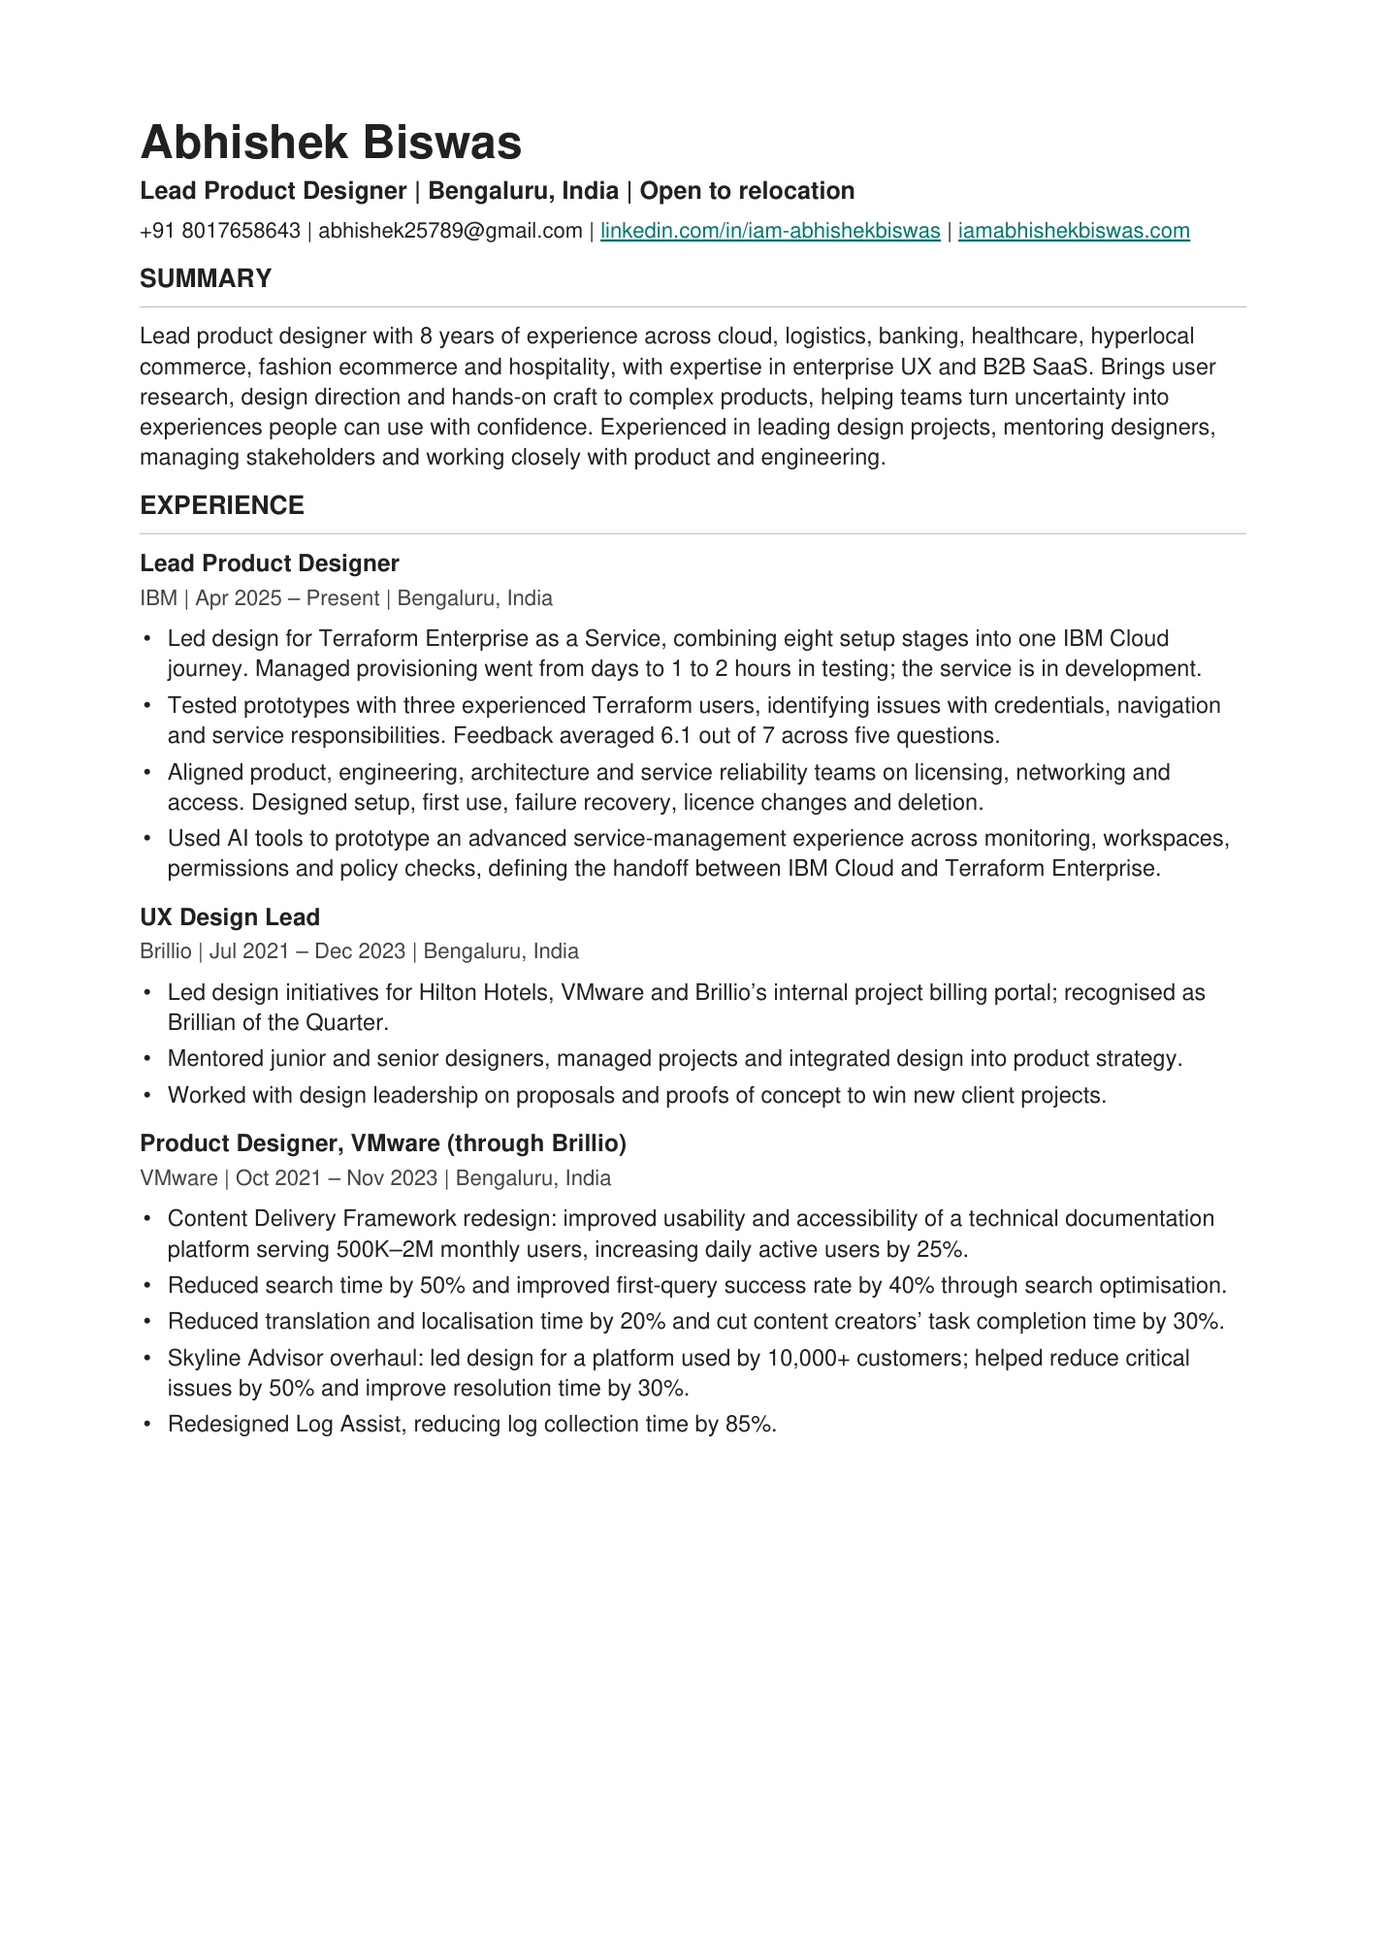
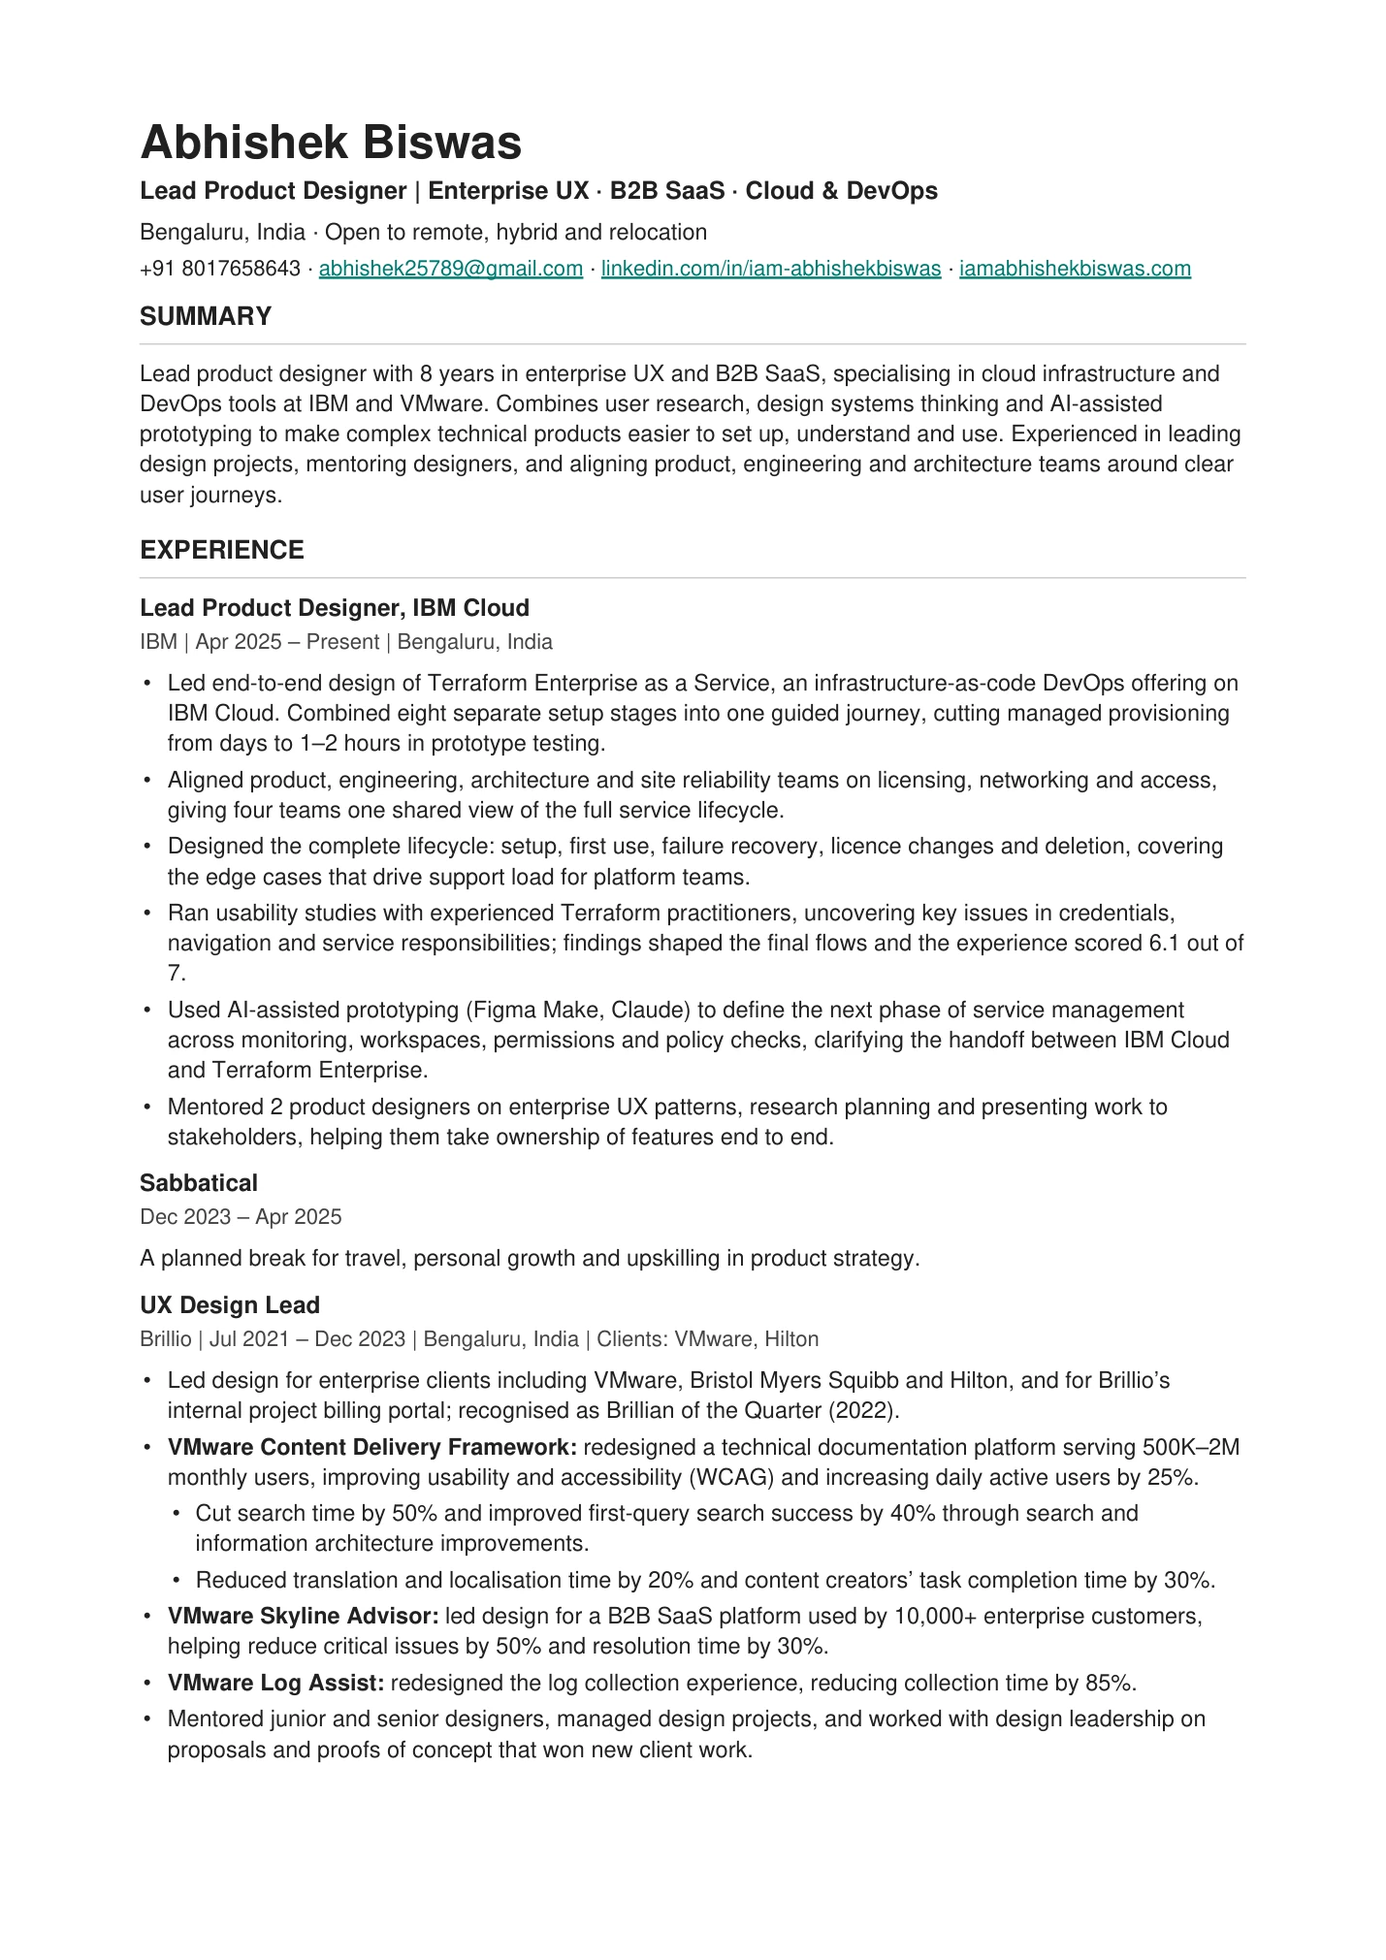
hero, resume, timline update 2

Changed region(s): [[0.0924, 0.0935, 0.8929, 0.904]]

diff --git a/resume/index.html b/resume/index.html
@@ -70,7 +70,7 @@
   <header class="resume-toolbar">
     <div class="toolbar-inner">
       <a class="toolbar-title resume-brand" href="/" aria-label="Abhishek Biswas, home"><img src="/brand-mark.svg?v=2" alt="" width="39" height="39"><span>Abhishek Biswas<b>.</b></span></a>
-      <div class="resume-toolbar-actions"><button class="theme-toggle" type="button" aria-label="Switch to dark theme" title="Switch to dark theme"><svg class="theme-sun" width="20" height="20" viewBox="0 0 24 24" fill="none" stroke="currentColor" stroke-width="1.7" stroke-linecap="round" aria-hidden="true"><circle cx="12" cy="12" r="3.8"/><path d="M12 2v2m0 16v2M2 12h2m16 0h2M4.93 4.93l1.42 1.42m11.3 11.3 1.42 1.42M4.93 19.07l1.42-1.42m11.3-11.3 1.42-1.42"/></svg><svg class="theme-moon" width="20" height="20" viewBox="0 0 24 24" fill="none" stroke="currentColor" stroke-width="1.7" stroke-linecap="round" stroke-linejoin="round" aria-hidden="true"><path d="M20.6 13.5A8.6 8.6 0 0 1 10.5 3.4a8.6 8.6 0 1 0 10.1 10.1Z"/></svg></button><a class="download-link" href="./Abhishek_Biswas_Resume_ATS.pdf?v=216" download="Abhishek-Biswas-Resume.pdf" aria-label="Download Abhishek Biswas résumé as a PDF" title="Download PDF">
+      <div class="resume-toolbar-actions"><button class="theme-toggle" type="button" aria-label="Switch to dark theme" title="Switch to dark theme"><svg class="theme-sun" width="20" height="20" viewBox="0 0 24 24" fill="none" stroke="currentColor" stroke-width="1.7" stroke-linecap="round" aria-hidden="true"><circle cx="12" cy="12" r="3.8"/><path d="M12 2v2m0 16v2M2 12h2m16 0h2M4.93 4.93l1.42 1.42m11.3 11.3 1.42 1.42M4.93 19.07l1.42-1.42m11.3-11.3 1.42-1.42"/></svg><svg class="theme-moon" width="20" height="20" viewBox="0 0 24 24" fill="none" stroke="currentColor" stroke-width="1.7" stroke-linecap="round" stroke-linejoin="round" aria-hidden="true"><path d="M20.6 13.5A8.6 8.6 0 0 1 10.5 3.4a8.6 8.6 0 1 0 10.1 10.1Z"/></svg></button><a class="download-link" href="./Abhishek_Biswas_Resume_ATS.pdf?v=274" download="Abhishek-Biswas-Resume.pdf" aria-label="Download Abhishek Biswas résumé as a PDF" title="Download PDF">
         <svg width="17" height="17" viewBox="0 0 24 24" fill="none" stroke="currentColor" stroke-width="1.8" stroke-linecap="round" stroke-linejoin="round" aria-hidden="true"><path d="M12 3v12m-5-5 5 5 5-5M5 17v4h14v-4"/></svg>
         Download PDF
       </a></div>
@@ -79,76 +79,73 @@
   <div class="resume-back-row"><a class="back-link" href="../index.html"><span class="back-icon"><svg width="20" height="20" viewBox="0 0 24 24" fill="none" stroke="currentColor" stroke-width="1.6" stroke-linecap="round" stroke-linejoin="round" aria-hidden="true"><path d="M19 12H5m6-6-6 6 6 6"/></svg></span><span>Home</span></a></div>
   <main class="resume-pages" id="resume">
 <div class="resume-sheet"><h1>Abhishek Biswas</h1>
-<p class="resume-subtitle">Lead Product Designer | Bengaluru, India | Open to relocation</p>
-<p class="resume-contact">+91 8017658643 | <a href="mailto:abhishek25789@gmail.com">abhishek25789@gmail.com</a> | <a href="https://www.linkedin.com/in/iam-abhishekbiswas" target="_blank" rel="noopener noreferrer">linkedin.com/in/iam abhishekbiswas</a> | <a href="https://iamabhishekbiswas.com" target="_blank" rel="noopener noreferrer">iamabhishekbiswas.com</a></p>
+<p class="resume-subtitle">Lead Product Designer | Enterprise UX · B2B SaaS · Cloud &amp; DevOps</p>
+<p>Bengaluru, India · Open to remote, hybrid and relocation</p>
+<p class="resume-contact">+91 8017658643 · <a href="mailto:abhishek25789@gmail.com">abhishek25789@gmail.com</a> · <a href="https://linkedin.com/in/iam-abhishekbiswas" target="_blank" rel="noopener noreferrer">linkedin.com/in/iam-abhishekbiswas</a> · <a href="https://iamabhishekbiswas.com" target="_blank" rel="noopener noreferrer">iamabhishekbiswas.com</a></p>
 <h2>SUMMARY</h2>
-<p>Lead product designer with 8 years of experience across cloud, logistics, banking, healthcare, hyperlocal commerce, fashion ecommerce and hospitality, with expertise in enterprise UX and B2B SaaS. Uses research, task flows, interface design and prototype testing to make complex products easier to set up and use. Experienced in leading design projects, mentoring designers, managing stakeholders and working closely with product and engineering.</p>
+<p>Lead product designer with 8 years in enterprise UX and B2B SaaS, specialising in cloud infrastructure and DevOps tools at IBM and VMware. Combines user research, design systems thinking and AI-assisted prototyping to make complex technical products easier to set up, understand and use. Experienced in leading design projects, mentoring designers, and aligning product, engineering and architecture teams around clear user journeys.</p>
 <h2>EXPERIENCE</h2>
-<article class="resume-entry"><h3>Lead Product Designer</h3>
-<p class="resume-meta">IBM | Apr 2025 to Present | Bengaluru, India</p>
+<article class="resume-entry"><h3>Lead Product Designer, IBM Cloud</h3>
+<p class="resume-meta">IBM | Apr 2025 – Present | Bengaluru, India</p>
 <ul>
-<li>Led design for Terraform Enterprise as a Service, combining eight setup stages into one flow in IBM Cloud. Managed provisioning went from days to 1 to 2 hours in testing; the service is in development.</li>
-<li>Tested prototypes with three experienced Terraform users, identifying issues with credentials, navigation and service responsibilities. Feedback averaged 6.1 out of 7 across five questions.</li>
-<li>Aligned product, engineering, architecture and service reliability teams on licensing, networking and access. Designed setup, first use, failure recovery, licence changes and deletion.</li>
-<li>Used AI tools to prototype monitoring, workspace management, permissions and policy checks. Defined which actions customers complete in IBM Cloud and which require Terraform Enterprise.</li>
+<li>Led end-to-end design of Terraform Enterprise as a Service, an infrastructure-as-code DevOps offering on IBM Cloud. Combined eight separate setup stages into one guided journey, cutting managed provisioning from days to 1–2 hours in prototype testing.</li>
+<li>Aligned product, engineering, architecture and site reliability teams on licensing, networking and access, giving four teams one shared view of the full service lifecycle.</li>
+<li>Designed the complete lifecycle: setup, first use, failure recovery, licence changes and deletion, covering the edge cases that drive support load for platform teams.</li>
+<li>Ran usability studies with experienced Terraform practitioners, uncovering key issues in credentials, navigation and service responsibilities; findings shaped the final flows and the experience scored 6.1 out of 7.</li>
+<li>Used AI-assisted prototyping (Figma Make, Claude) to define the next phase of service management across monitoring, workspaces, permissions and policy checks, clarifying the handoff between IBM Cloud and Terraform Enterprise.</li>
+<li>Mentored 2 product designers on enterprise UX patterns, research planning and presenting work to stakeholders, helping them take ownership of features end to end.</li>
 </ul></article>
+<article class="resume-entry"><h3>Sabbatical</h3>
+<p class="resume-meta">Dec 2023 – Apr 2025</p>
+<p>A planned break for travel, personal growth and upskilling in product strategy.</p></article>
 <article class="resume-entry"><h3>UX Design Lead</h3>
-<p class="resume-meta">Brillio | Jul 2021 to Dec 2023 | Bengaluru, India</p>
+<p class="resume-meta">Brillio | Jul 2021 – Dec 2023 | Bengaluru, India | Clients: VMware, Hilton</p>
 <ul>
-<li>Led design initiatives for Hilton Hotels, VMware and Brillio’s internal project billing portal; recognised as Brillian of the Quarter.</li>
-<li>Mentored junior and senior designers, managed design projects and worked with product teams to prioritise improvements.</li>
-<li>Worked with design leadership on proposals and proofs of concept to win new client projects.</li>
-</ul></article>
-<article class="resume-entry"><h3>Product Designer, VMware (through Brillio)</h3>
-<p class="resume-meta">VMware | Oct 2021 to Nov 2023 | Bengaluru, India</p>
-<ul>
-<li>Content Delivery Framework redesign: improved usability and accessibility of a technical documentation platform serving 500K to 2M monthly users, increasing daily active users by 25%.</li>
-<li>Reduced search time by 50% and improved first query success rate by 40% through search optimisation.</li>
-<li>Reduced translation and localisation time by 20% and cut content creators’ task completion time by 30%.</li>
-<li>Skyline Advisor overhaul: led design for a platform used by 10,000+ customers; helped reduce critical issues by 50% and improve resolution time by 30%.</li>
-<li>Redesigned Log Assist, reducing log collection time by 85%.</li>
+<li>Led design for enterprise clients including VMware, Bristol Myers Squibb and Hilton, and for Brillio’s internal project billing portal; recognised as Brillian of the Quarter (2022).</li>
+<li><b>VMware Content Delivery Framework:</b> redesigned a technical documentation platform serving 500K–2M monthly users, improving usability and accessibility (WCAG) and increasing daily active users by 25%.
+<ul><li>Cut search time by 50% and improved first-query search success by 40% through search and information architecture improvements.</li>
+<li>Reduced translation and localisation time by 20% and content creators’ task completion time by 30%.</li></ul></li>
+<li><b>VMware Skyline Advisor:</b> led design for a B2B SaaS platform used by 10,000+ enterprise customers, helping reduce critical issues by 50% and resolution time by 30%.</li>
+<li><b>VMware Log Assist:</b> redesigned the log collection experience, reducing collection time by 85%.</li>
+<li>Mentored junior and senior designers, managed design projects, and worked with design leadership on proposals and proofs of concept that won new client work.</li>
 </ul></article></div>
-<div class="resume-sheet"><article class="resume-entry"><h3>Senior Product Designer</h3>
-<p class="resume-meta">Cogoport | Nov 2018 to Nov 2019 | Mumbai, India</p>
+<div class="resume-sheet">
+<article class="resume-entry"><h3>Founding Team Member, Crumbs n Drizzle</h3>
+<p class="resume-meta">Nov 2019 – Jul 2021</p>
+<p>Helped set up and grow a family-run home bakery, leading branding, digital presence and operations.</p></article>
+<article class="resume-entry"><h3>Senior Product Designer</h3>
+<p class="resume-meta">Cogoport | Nov 2018 – Nov 2019 | Mumbai, India</p>
 <ul>
-<li>Redesigned onboarding, freight rate discovery, container booking and shipment tracking; increased adoption by 20% and supplier retention by 15%.</li>
-<li>Used research with customers and freight partners to guide booking, tracking, task and document designs.</li>
-<li>Reduced documentation handling time by 24 to 48 hours with 10% cost savings; 1,500+ containers booked in the first month after launch.</li>
+<li>Redesigned onboarding, freight rate discovery, container booking and shipment tracking for a B2B logistics platform, increasing adoption by 20% and supplier retention by 15%.</li>
+<li>Brought customer and stakeholder research into decisions across the shipment journey.</li>
+<li>Cut documentation handling time by 24–48 hours with 10% cost savings; 1,500+ containers booked in the first month after launch.</li>
 </ul></article>
 <article class="resume-entry"><h3>UX/CX Designer</h3>
-<p class="resume-meta">Zensar Technologies | Mar 2017 to Oct 2018 | Pune, India</p>
+<p class="resume-meta">Zensar Technologies | Mar 2017 – Oct 2018 | Pune, India and Johannesburg, South Africa</p>
 <ul>
+<li><b>Nedbank:</b> researched, designed and tested credit card journeys across web and mobile banking, increasing engagement by 20% and reducing support queries by 15%; team won the client’s Best UX/UI Squad award.</li>
 <li>Designed internal project and employee management applications with business, marketing and development teams; received the Q4 Quarterly Award (2018).</li>
 </ul></article>
-<article class="resume-entry"><h3>UX Designer, Nedbank (through Zensar)</h3>
-<p class="resume-meta">Nedbank | Dec 2017 to Jun 2018 | Johannesburg, South Africa</p>
-<ul>
-<li>Researched, designed and tested credit card experiences for web and mobile banking.</li>
-<li>Increased user engagement by 20% and reduced support queries by 15%; team won the client’s Best UX/UI Squad award.</li>
-</ul></article>
-<article class="resume-entry"><p><b>UX/UI Designer (Freelance)</b> | Doodhwala | Dec 2016 to Feb 2017 | Bengaluru, India</p>
-<p>Reworked the mobile app around daily dairy and grocery purchase habits; designed branding, icon set and digital content.</p></article>
-<article class="resume-entry"><p><b>UX Design Intern</b> | Wooplr | Jun 2016 to Nov 2016 | Bengaluru, India</p>
-<p>Helped the core product team build a framework for launching online fashion stores with zero inventory.</p></article>
-<article class="resume-entry"><p><b>Research Intern</b> | Toshiba | May 2015 to Jun 2015 | Bengaluru, India</p>
-<p>Developed and pitched a sustainable business model for wastewater management through NID’s summer programme.</p></article>
-<article class="resume-entry"><p><b>Fashion and Lifestyle Accessory Designer</b> | Arvind Lifestyle Brands (Bengaluru, India), Logotech Clothing (Kolkata, India), Kariwala Industries (Kolkata, India) | May 2013 to Apr 2014</p>
-<p>Early work in fashion and accessories before moving into digital product design.</p></article>
+<article class="resume-entry"><h3>Earlier experience</h3>
+<p>UX/UI Designer (freelance), Doodhwala (2016–17) · UX Design Intern, Wooplr (2016) · Research Intern, Toshiba via NID (2015) · Fashion and accessory designer, Arvind Lifestyle Brands and others (2013–14)</p></article>
 <h2>SKILLS</h2>
-<p>Enterprise UX, B2B SaaS, design strategy, user research and usability testing, information architecture, interaction design, journey and systems mapping, AI assisted prototyping, accessibility (WCAG), UX content design, design direction and mentoring, stakeholder management, collaboration across teams, client relations, data interpretation</p>
-<p>Tools: Figma, FigJam, Miro, Sketch, Adobe XD, Adobe Creative Suite, Jira, Confluence</p>
-<p><b>AI tools:</b> ChatGPT, Claude, Copilot, Figma Make</p>
-<h2>EDUCATION</h2>
-<h3>Master of Design, Design for Retail Experience</h3>
-<p class="resume-meta">National Institute of Design, Bengaluru, India | 2014 to 2017</p>
-<h3>Bachelor of Design, Fashion Design</h3>
-<p class="resume-meta">National Institute of Fashion Technology, Kolkata, India | 2009 to 2013</p>
-<h2>AWARDS</h2>
 <ul>
-<li>Brillian of the Quarter, Brillio (2022)</li>
+<li><b>Design:</b> Enterprise UX, B2B SaaS, design systems, interaction design, information architecture, accessibility (WCAG), UX content design</li>
+<li><b>Research and strategy:</b> User research, usability testing, journey and systems mapping, design strategy, data interpretation</li>
+<li><b>Domain:</b> Cloud infrastructure, DevOps and infrastructure as code (Terraform), technical documentation, logistics, banking</li>
+<li><b>Leadership:</b> Design direction, mentoring, stakeholder management, cross-functional collaboration, client relations</li>
+<li><b>Tools:</b> Figma, FigJam, Miro, Jira, Confluence, Adobe Creative Suite</li>
+<li><b>AI:</b> AI-assisted prototyping, Figma Make, Claude, ChatGPT, Copilot</li>
+</ul>
+<h2>EDUCATION</h2>
+<ul>
+<li><b>Master of Design, Design for Retail Experience:</b> National Institute of Design (NID), Bengaluru | 2014 – 2017</li>
+<li><b>Bachelor of Design, Fashion Design:</b> National Institute of Fashion Technology (NIFT), Kolkata | 2009 – 2013</li>
+</ul>
+<h2>AWARDS</h2>
+<ul><li>Brillian of the Quarter, Brillio (2022)</li>
 <li>Best UX/UI Squad, Nedbank (2018)</li>
-<li>Q4 Quarterly Award, Zensar (2018)</li>
-</ul></div>
+<li>Q4 Quarterly Award, Zensar (2018)</li></ul></div>
 </main>
   <button class="scroll-top" type="button" aria-label="Scroll to top" title="Back to top"><svg width="19" height="19" viewBox="0 0 24 24" fill="none" stroke="currentColor" stroke-width="1.8" stroke-linecap="round" stroke-linejoin="round" aria-hidden="true"><path d="M12 19V5m-6 6 6-6 6 6"/></svg></button>
   <script>

diff --git a/shared/editorial-home.css b/shared/editorial-home.css
@@ -190,3 +190,15 @@ html[data-theme="dark"] .company-strip{--company-ink:#d5e3da;--company-opacity:.
   .company-strip{padding-block:20px}
   .company-logo{width:calc(var(--logo-width)*.86);height:calc(var(--logo-height)*.86)}
 }
+
+/* The hero offers a work anchor and the current downloadable résumé. */
+.hero-actions{display:flex;flex-wrap:wrap;gap:12px;margin-top:24px}
+.hero .hero-actions .hero-work-link{margin-top:0;justify-content:center}
+.hero .hero-primary{background:var(--lime);color:#172724;border-color:var(--lime)}
+.hero .hero-primary:hover{background:var(--ink);color:var(--paper);border-color:var(--ink)}
+@media(max-width:420px){.hero-actions{gap:10px}.hero .hero-actions .hero-work-link{padding-inline:17px}}
+
+/* Use the same green fluid surface as the navigation contact button. */
+.hero .hero-contact{position:relative;isolation:isolate;overflow:hidden;border:0;color:#172724;background:linear-gradient(115deg,#dcf363 0%,#a9e39a 52%,#68cbb0 100%);background-size:200% 200%;background-position:50% 50%;animation:contact-gradient-drift 4s ease-in-out infinite alternate;transition:filter .2s ease}
+.hero .hero-contact:hover{color:#172724;filter:brightness(.96)}
+@media(prefers-reduced-motion:reduce){.hero .hero-contact{animation:none}}

diff --git a/shared/contact-liquid.js b/shared/contact-liquid.js
@@ -174,4 +174,4 @@ function attachFluid(section, compact = false) {
 }
 
 attachFluid(document.querySelector('#contact.contact'));
-document.querySelectorAll('.portfolio-header .portfolio-contact').forEach(button => attachFluid(button, true));
+document.querySelectorAll('.portfolio-header .portfolio-contact, .hero-contact').forEach(button => attachFluid(button, true));
